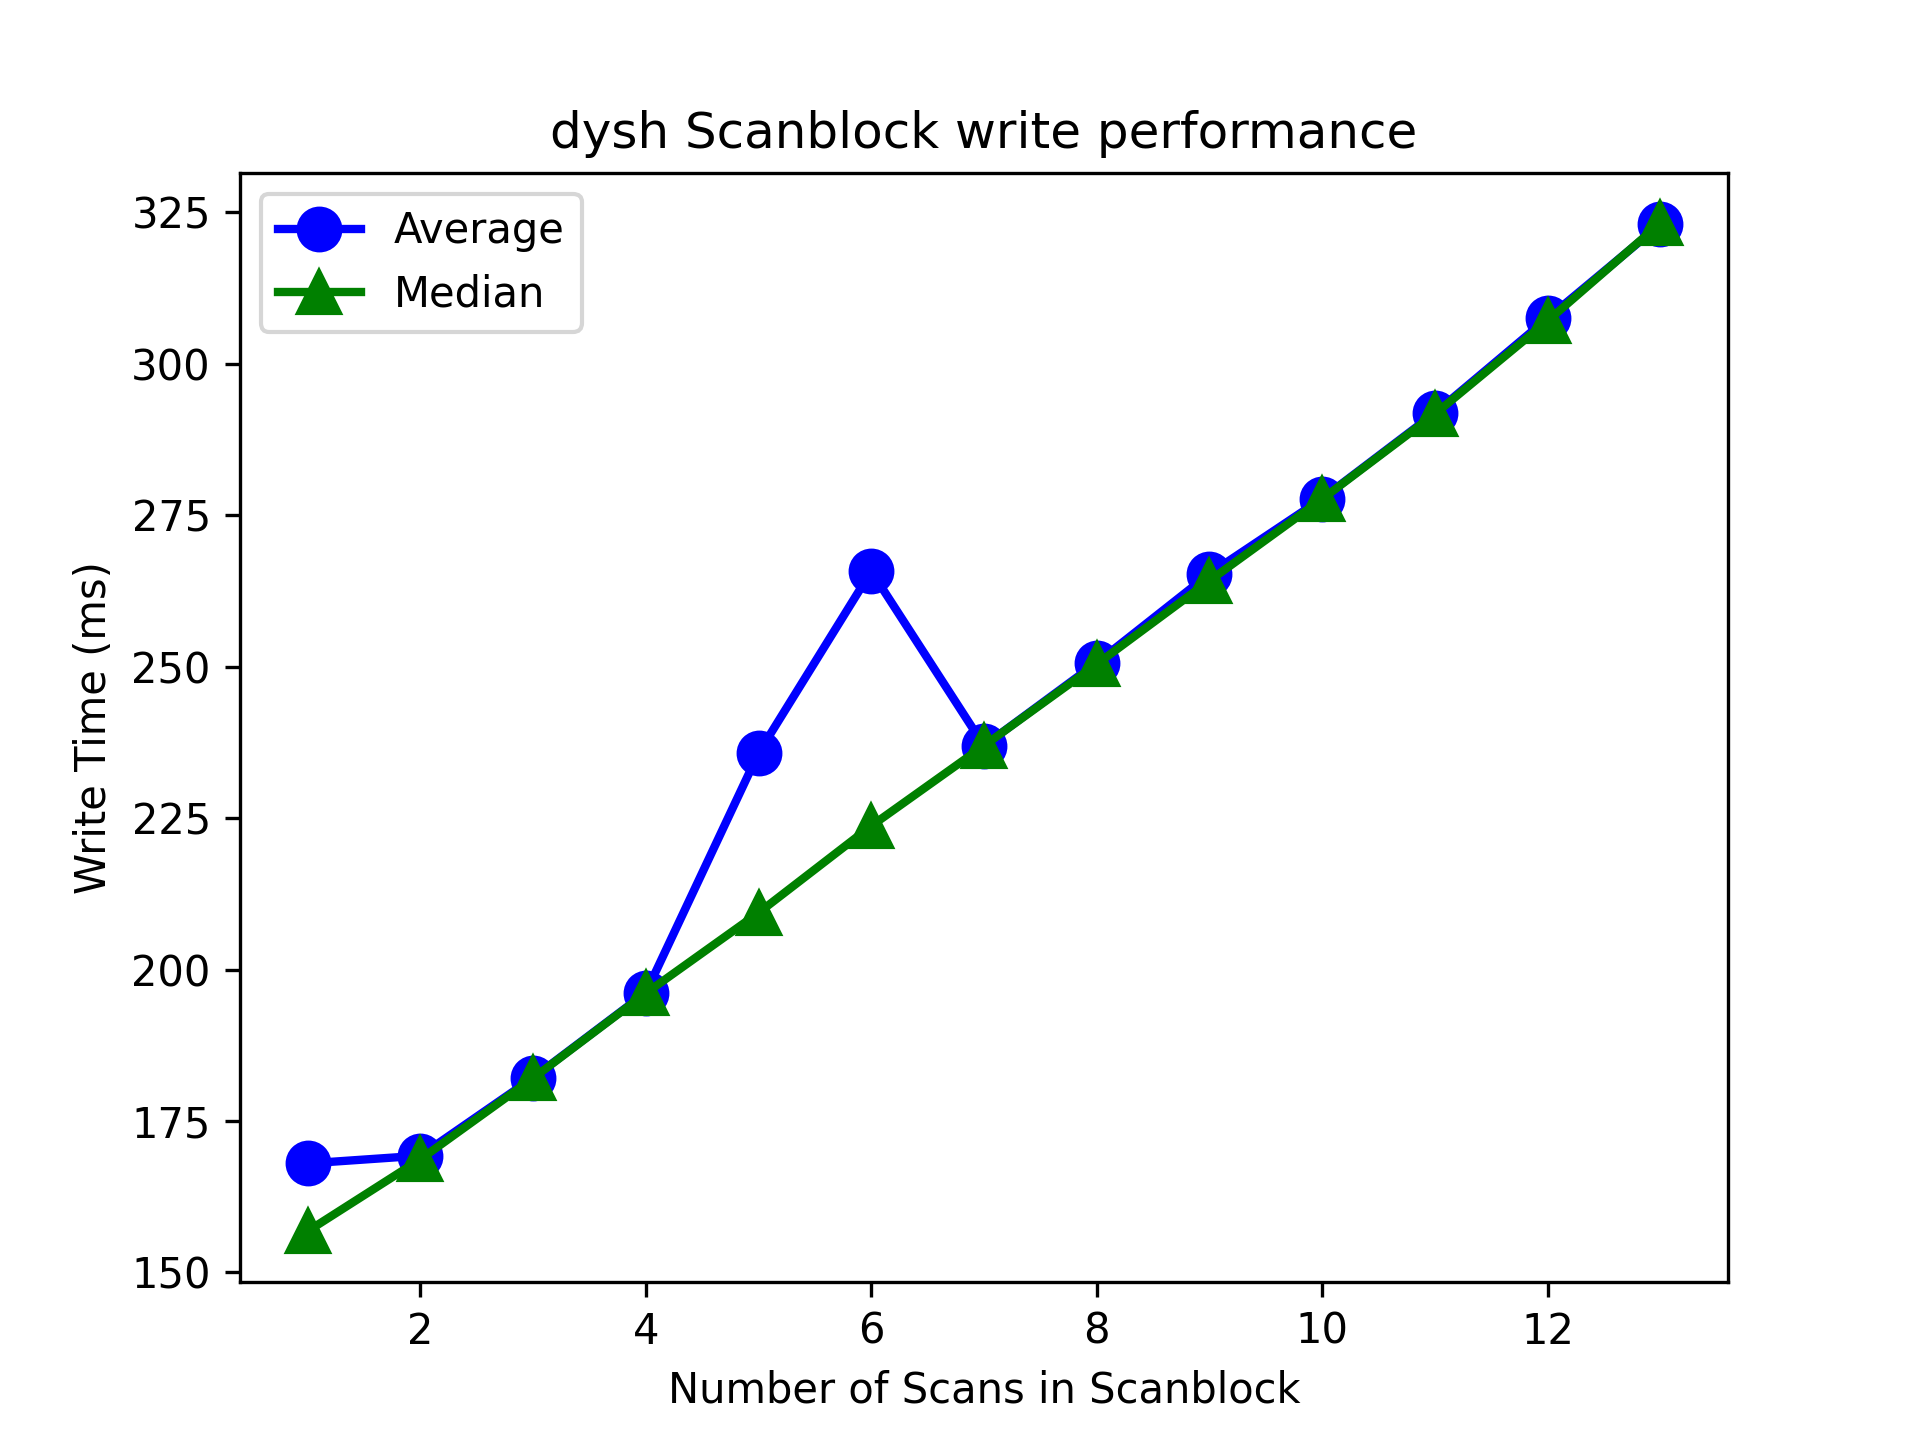
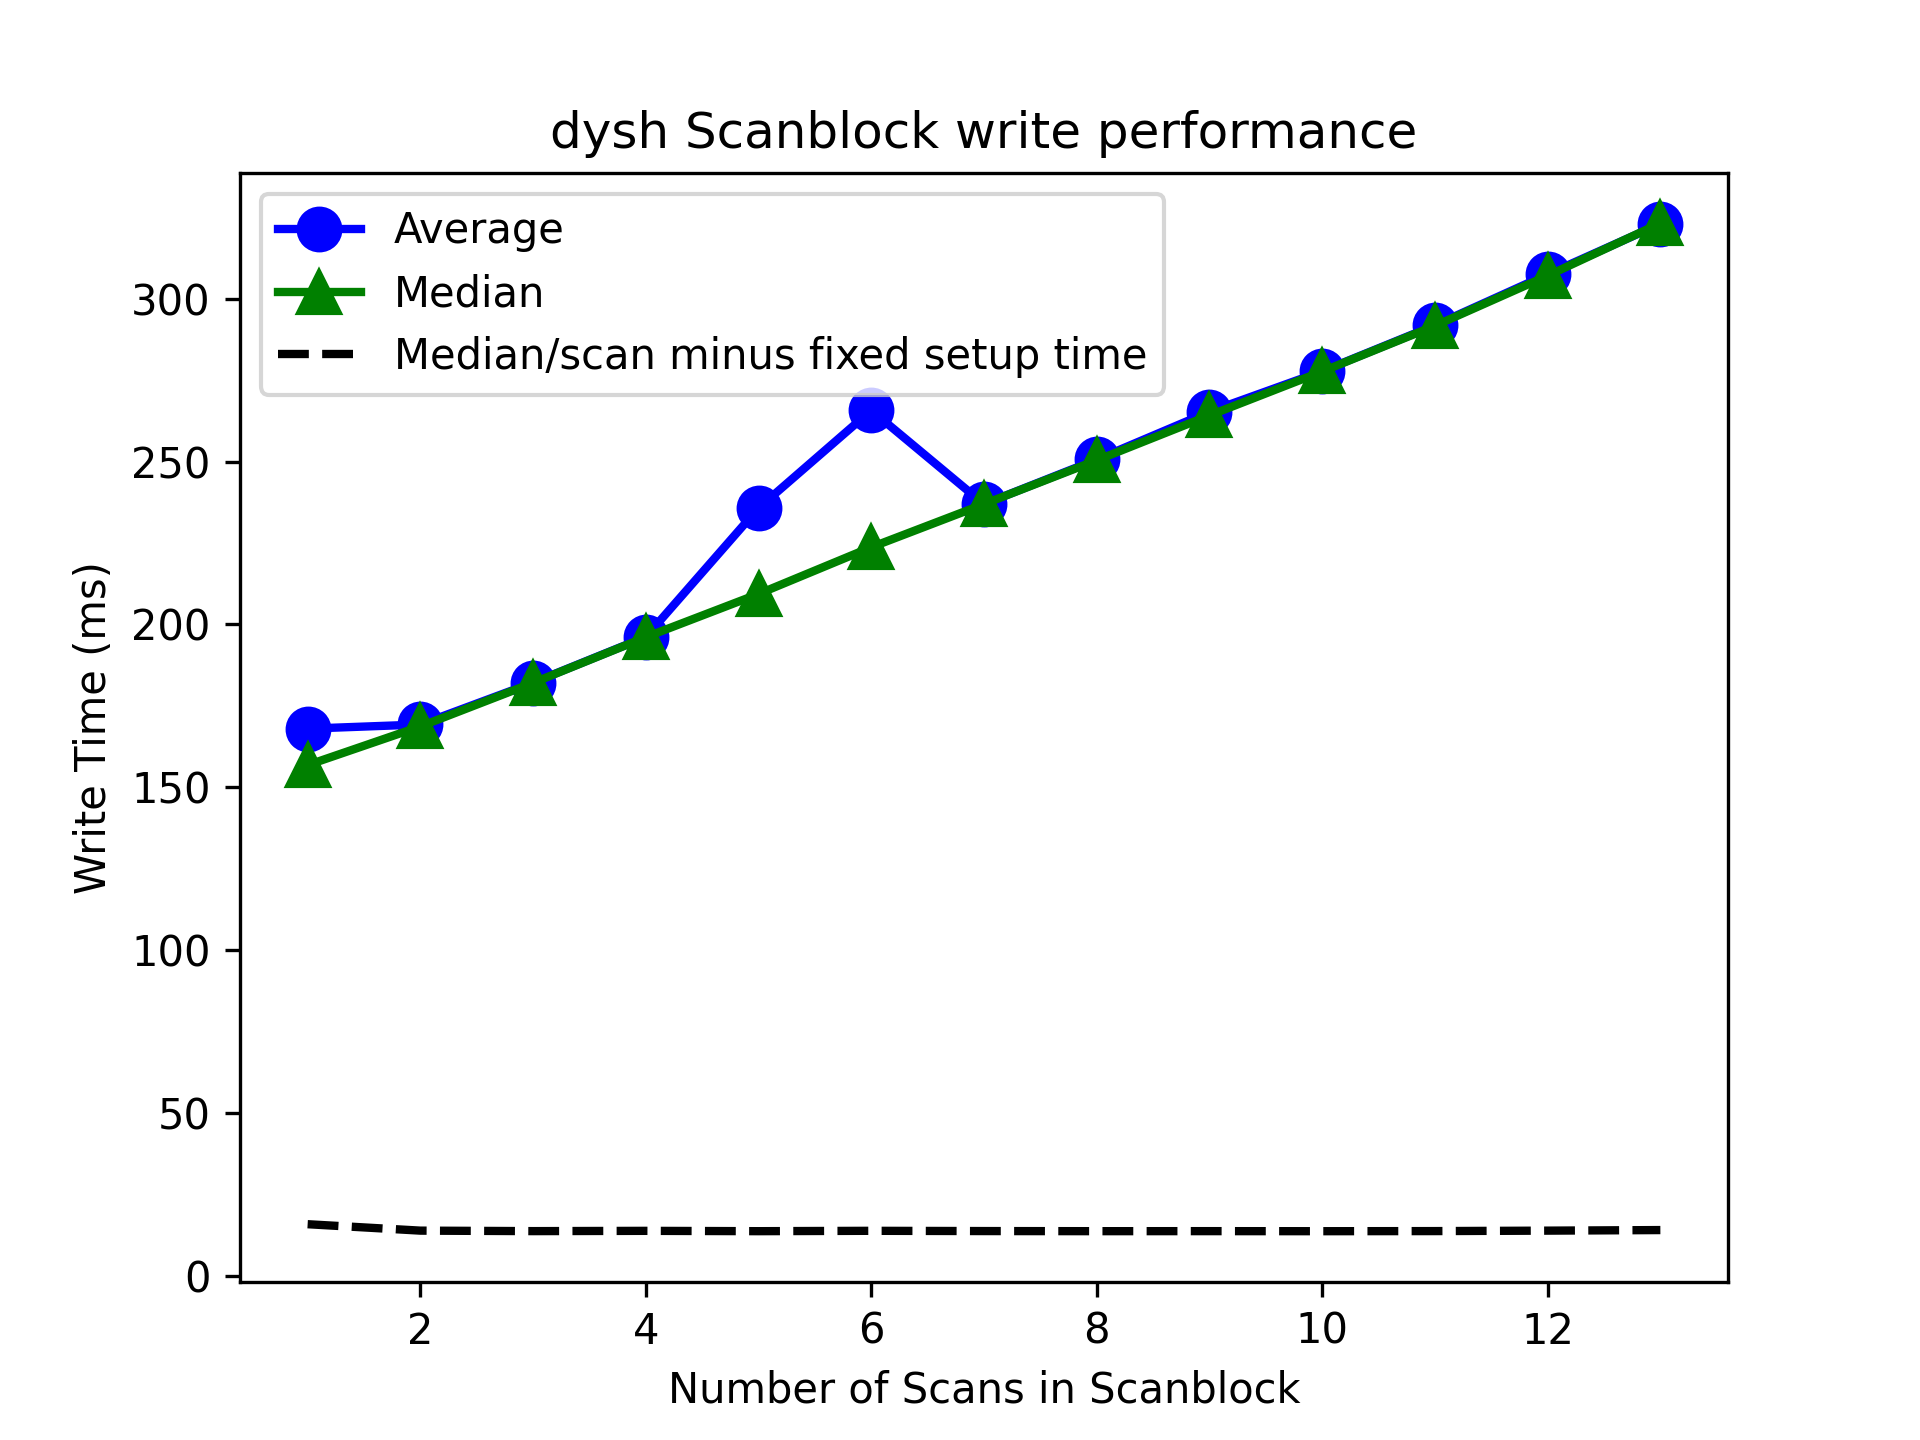
add median per scan

diff --git a/benchmark/q8stats/plotdatawrite.py b/benchmark/q8stats/plotdatawrite.py
@@ -8,15 +8,25 @@ mask = ~((t['name'] == 'load') | (t['name'] == 'getps'))
 num = []
 msavg = []
 msmed = []
+perscan = []
 for i in range(1,14):
     m2 = t['nwrite'] == i
     num.append(i)
     msavg.append(np.mean(t[mask & m2]['time']))
     msmed.append(np.median(t[mask & m2]['time']))
     
+num = np.array(num)
+msavg = np.array(msavg)
+msmed= np.array(msmed)
+z = np.polyfit(num,msmed,deg=1)
+print(f"fit={z} zeropoint={np.poly1d(z)(0)}")
+perscan = (msmed-z[1])/num
+print(f"average per scan = {np.mean(perscan)}")
 fig,ax = plt.subplots()
 ax.plot(num,msavg,color='blue',marker='o',linestyle='solid',linewidth=2,markersize=10,label='Average')
 ax.plot(num,msmed,color='green',marker='^',linestyle='solid',linewidth=2,markersize=10,label='Median')
+# actually need to fit and subtract off zero point "setup" time
+ax.plot(num,perscan,color='black',linestyle='dashed',linewidth=2,label='Median/scan minus fixed setup time')
 ax.set_ylabel("Write Time (ms)")
 ax.set_xlabel("Number of Scans in Scanblock")
 ax.set_title("dysh Scanblock write performance")
